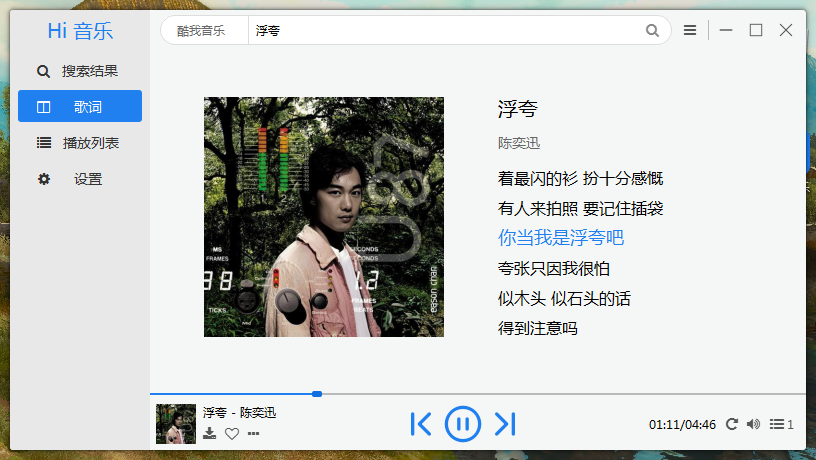
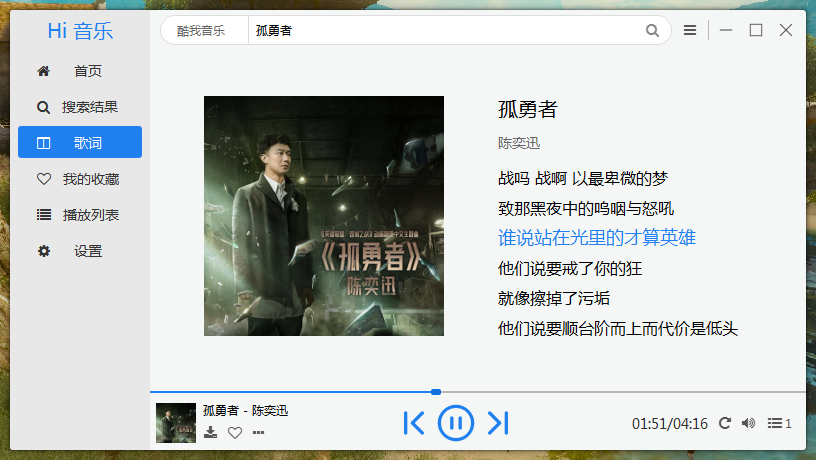
v0.1.2

diff --git a/app/mapi.py b/app/mapi.py
@@ -264,7 +264,7 @@ class EngineKugou:
     }
 
     @staticmethod
-    @error_getter
+    #@error_getter
     def search(kw: str):
         url = EngineKugou.search_url
         # params = EngineKugou.search_params
@@ -272,6 +272,8 @@ class EngineKugou:
         url = url.format(kw)
 
         response = requests.get(url).text
+        print(response)
+        
         json = loads(match('.*?({.*})', response).group(1))
         datas = json['data']['lists']
 

diff --git a/README.md b/README.md
@@ -77,21 +77,29 @@ python -m run.pyw
 
 ## 运行截图
 
+首页
+
+![首页](screenshots/home.png)
+
 搜索歌曲
 
-![搜索歌曲](/screenshots/search_results.png)
+![搜索歌曲](screenshots/search_result.png)
 
 歌词界面
 
-![歌词界面](/screenshots/lrcs.png)
+![歌词界面](screenshots/lrcs.png)
+
+收藏列表
+
+![收藏列表](screenshots/collections.png)
 
 播放列表
 
-![播放列表](/screenshots/playlist.png)
+![播放列表](screenshots/playlist.png)
 
 设置界面
 
-![设置界面](/screenshots/settings.png)
+![设置界面](screenshots/settings.png)
 
 ## 交流
 
